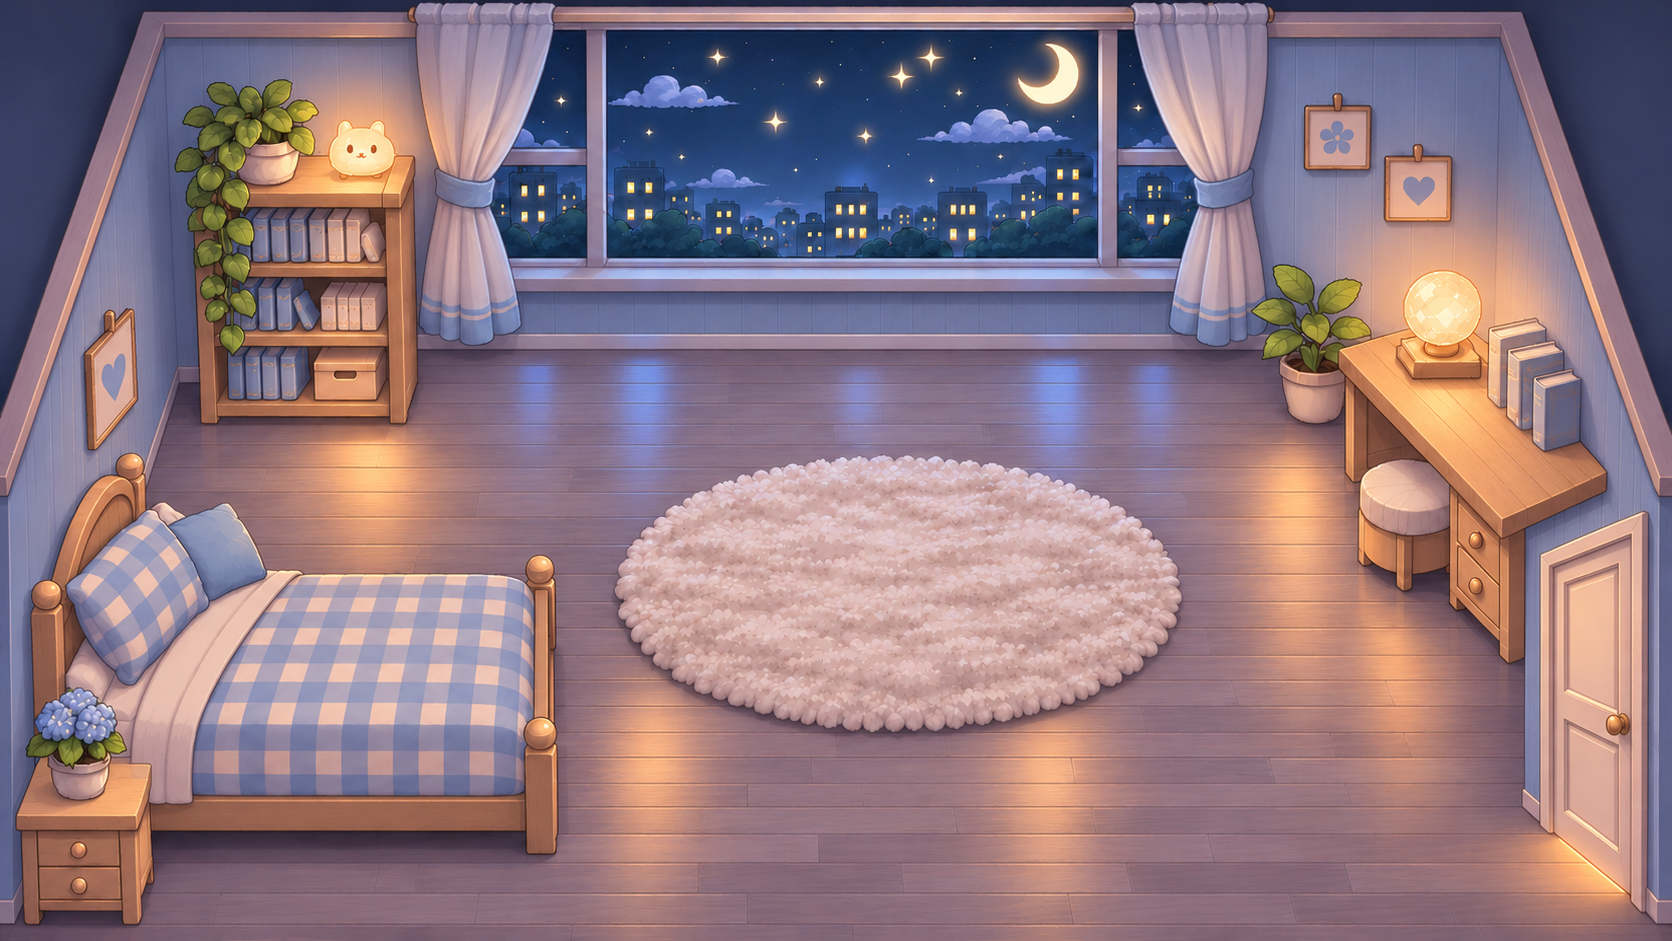
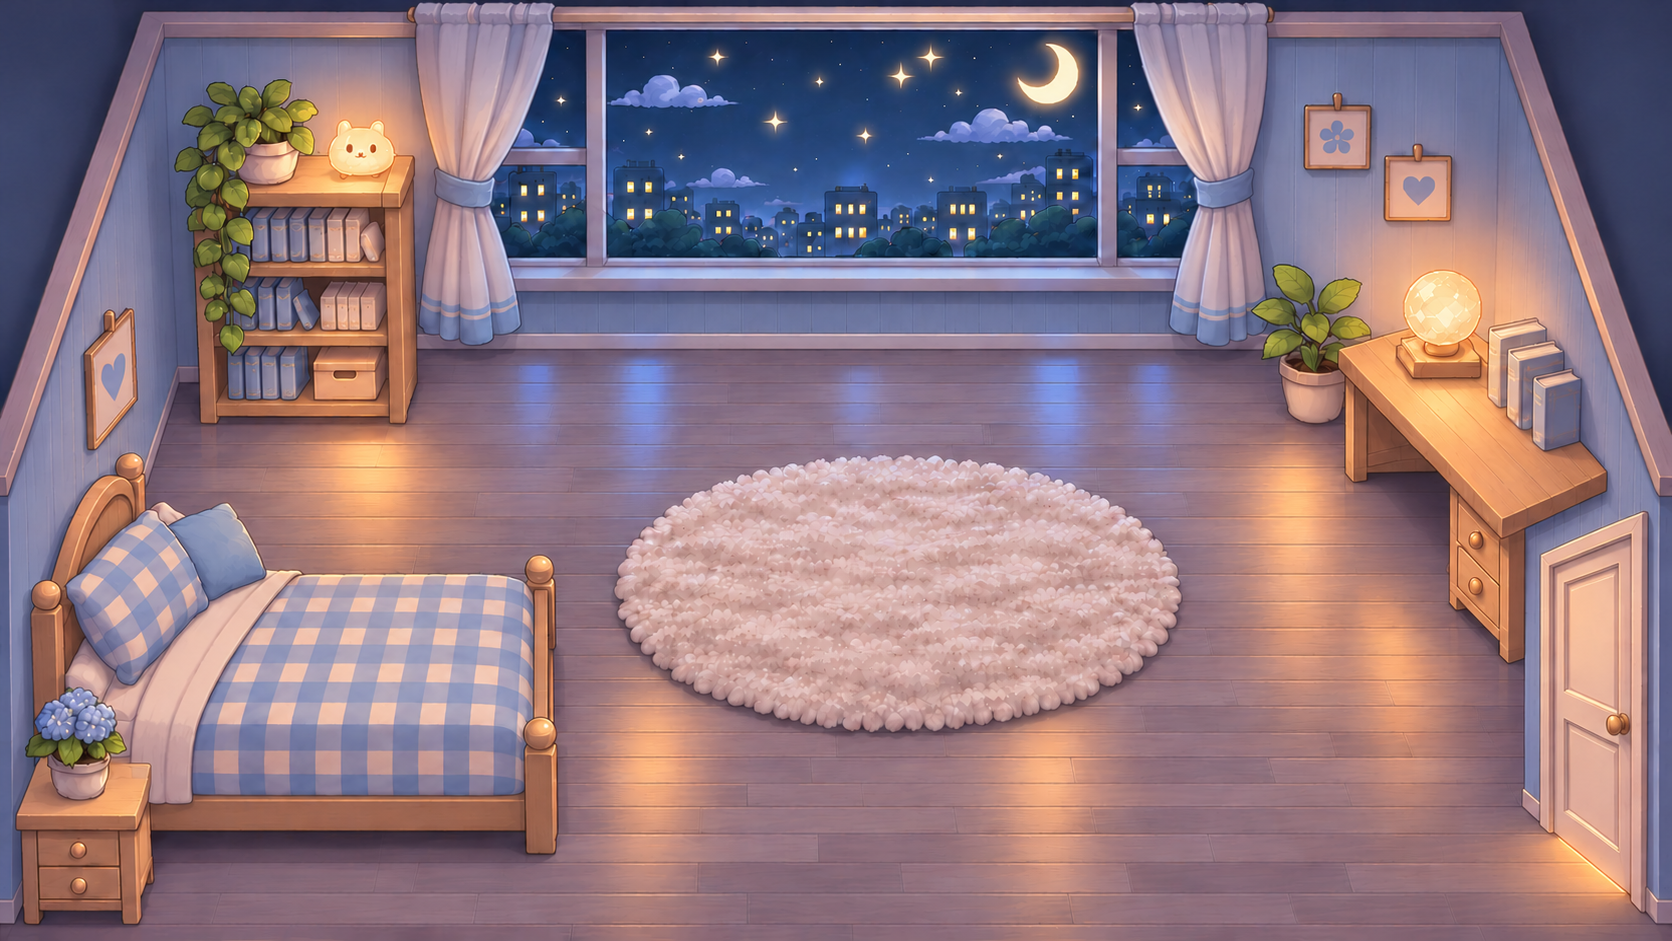
Fix character scaling and add question room answer tracking

diff --git a/css/style.css b/css/style.css
@@ -451,17 +451,16 @@ body.bedroom-game-active .utility-controls { z-index: 70; }
 .scene-name { position: absolute; z-index: 7; top: calc(var(--safe-top) + 48px); left: 50%; margin: 0; padding: 6px 16px; border-radius: 999px; color: rgba(255,255,255,.88); background: rgba(60,45,105,.3); box-shadow: inset 0 0 0 1px rgba(255,255,255,.28); backdrop-filter: blur(7px); transform: translateX(-50%); font-size: .72rem; letter-spacing: .12em; }
 .room-player { position: absolute; z-index: 4; width: clamp(110px, 9vw, 142px); aspect-ratio: 2 / 3; transform: translate(-50%, -50%); transform-origin: 50% 100%; will-change: left, top, transform; }
 .room-player::after { content: ""; position: absolute; z-index: -1; left: 21%; right: 21%; bottom: 4%; height: 7%; border-radius: 50%; background: rgba(55,31,89,.2); filter: blur(3px); }
-.room-player img { width: 100%; height: 100%; display: block; object-fit: contain; }
+.room-player img { width: 100%; height: 100%; display: block; object-fit: contain; opacity: 0; }
 .room-player img.is-mirrored { transform: scaleX(-1); }
-.room-player.is-walking img { opacity: 0; }
-.room-player.is-walking::before { content: ""; position: absolute; left: 50%; bottom: 1%; width: 118%; aspect-ratio: 1; background: url("../assets/boy-walk-cycle-sheet.png") 0 0 / 400% 300% no-repeat; transform: translateX(-50%); }
-.room-player.is-walking[data-walk-frame="1"]::before { background-position-x: 33.333%; }
-.room-player.is-walking[data-walk-frame="2"]::before { background-position-x: 66.666%; }
-.room-player.is-walking[data-walk-frame="3"]::before { background-position-x: 100%; }
-.room-player.is-walking[data-facing="back"]::before { background-position-y: 50%; }
-.room-player.is-walking[data-facing="left"]::before,
-.room-player.is-walking[data-facing="right"]::before { background-position-y: 100%; }
-.room-player.is-walking[data-facing="right"]::before { transform: translateX(-50%) scaleX(-1); }
+.room-player::before { content: ""; position: absolute; left: 50%; bottom: 1%; width: 112%; aspect-ratio: 1; background: url("../assets/boy-walk-cycle-sheet.png") 0 0 / 400% 300% no-repeat; transform: translateX(-50%); }
+.room-player[data-walk-frame="1"]::before { background-position-x: 33.333%; }
+.room-player[data-walk-frame="2"]::before { background-position-x: 66.666%; }
+.room-player[data-walk-frame="3"]::before { background-position-x: 100%; }
+.room-player[data-facing="back"]::before { background-position-y: 50%; }
+.room-player[data-facing="left"]::before,
+.room-player[data-facing="right"]::before { background-position-y: 100%; }
+.room-player[data-facing="right"]::before { transform: translateX(-50%) scaleX(-1); }
 .room-girl { position: absolute; z-index: 5; left: 23%; top: 68%; width: clamp(120px, 9.2vw, 150px); aspect-ratio: 3 / 4; padding: 0; border: 0; outline: 0; color: #f49ac3; background: transparent; transform: translate(-50%, -50%); cursor: url("../assets/cursor-heart.png") 8 5, pointer; }
 .room-girl::after { content: ""; position: absolute; z-index: -1; left: 18%; right: 18%; bottom: 2%; height: 7%; border-radius: 50%; background: rgba(55,31,89,.2); filter: blur(3px); }
 .room-girl-sprite { position: absolute; inset: 0; display: block; background-image: url("../assets/girl-bed-interaction-strip.png"); background-repeat: no-repeat; background-size: 400% 100%; background-position: 0 0; transition: filter .2s ease; }
@@ -496,11 +495,16 @@ body.bedroom-game-active .utility-controls { z-index: 70; }
 .shelf-hotspot { right: 7%; top: 47%; }
 .bedroom-game[data-scene="shop-interior"] .shelf-hotspot { display: block; opacity: .64; transform: translateY(0); animation: shelfBeacon 1.7s ease-in-out infinite; }
 .bedroom-game[data-scene="shop-interior"] .shelf-hotspot.is-near { opacity: 1; }
-.replay-direction { position: absolute; z-index: 6; right: 13%; top: 39%; min-width: 145px; padding: 11px 36px 11px 17px; border: 2px solid rgba(255,255,255,.78); border-radius: 16px; color: white; background: rgba(80,66,142,.76); box-shadow: 0 10px 28px rgba(35,25,60,.28), inset 0 0 18px rgba(255,255,255,.1); backdrop-filter: blur(10px); font: 700 clamp(.82rem,1.5vw,1.05rem)/1.15 "Kaiti SC",sans-serif; opacity: 0; transform: translateY(8px); transition: opacity .35s ease, transform .35s ease; pointer-events: none; }
+.replay-direction { position: absolute; z-index: 6; right: 13%; top: 39%; min-width: 145px; padding: 11px 36px 11px 17px; border: 3px solid #8a5b48; border-radius: 5px; color: #5b3d56; background: linear-gradient(180deg,#f0c89e,#d99d76); box-shadow: inset 0 0 0 2px rgba(255,235,205,.5), 0 8px 18px rgba(35,25,60,.25); font: 700 clamp(.82rem,1.5vw,1.05rem)/1.15 "Kaiti SC",sans-serif; opacity: 0; transform: translateY(8px) rotate(-2deg); transition: opacity .35s ease, transform .35s ease; pointer-events: none; }
 .replay-direction b { display:block; letter-spacing:.08em; }
-.replay-direction small { display:block; margin-top:3px; color:rgba(255,255,255,.74); font-size:.62em; font-weight:600; }
-.replay-direction span { position:absolute; right:11px; top:50%; color:#ffd5e8; font-size:1.35em; transform:translateY(-50%); }
-.bedroom-game[data-scene="crossroads"] .replay-direction.is-visible { opacity: 1; transform: translateY(0); }
+.replay-direction small { display:block; margin-top:3px; color:#81616e; font-size:.62em; font-weight:600; }
+.replay-direction span { position:absolute; right:11px; top:50%; color:#a54470; font-size:1.35em; transform:translateY(-50%); }
+.bedroom-game[data-scene="crossroads"] .replay-direction.is-visible { opacity: 1; transform: translateY(0) rotate(-2deg); }
+.question-direction { position:absolute; z-index:6; left:50%; top:22%; min-width:145px; padding:11px 17px 11px 42px; border:2px solid rgba(255,255,255,.82); border-radius:16px; color:white; background:rgba(91,111,170,.78); box-shadow:0 9px 24px rgba(35,25,60,.25),inset 0 0 18px rgba(255,255,255,.1); backdrop-filter:blur(9px); transform:translate(-50%,8px); opacity:0; transition:opacity .3s ease,transform .3s ease; pointer-events:none; font:700 clamp(.82rem,1.5vw,1.05rem)/1.15 "Kaiti SC",sans-serif; }
+.question-direction b,.question-direction small { display:block; }
+.question-direction small { margin-top:3px; color:rgba(255,255,255,.72); font-size:.62em; }
+.question-direction span { position:absolute; left:15px; top:50%; color:#d8e4ff; font-size:1.25em; transform:translateY(-50%); }
+.bedroom-game[data-scene="crossroads"] .question-direction.is-visible { opacity:1; transform:translate(-50%,0); pointer-events:auto; }
 .replay-shop-title { position: absolute; z-index: 6; top: 8%; left: 50%; display: none; padding: 8px 25px; color: #6b4c7e; font: 700 clamp(1.15rem,2.3vw,1.8rem)/1 "Kaiti SC",sans-serif; letter-spacing: .14em; transform: translateX(-50%); text-shadow: 0 2px 0 rgba(255,255,255,.7); }
 .bedroom-game[data-scene="shop-exterior"] .replay-shop-title { display: block; }
 .scene-toast { position: absolute; z-index: 18; left: 50%; bottom: 16%; margin: 0; padding: 9px 16px; border-radius: 14px; color: white; background: rgba(69,48,119,.76); backdrop-filter: blur(8px); transform: translateX(-50%); opacity: 0; transition: opacity .2s ease; pointer-events: none; }
@@ -521,6 +525,16 @@ body.bedroom-game-active .utility-controls { z-index: 70; }
 .memory-confirm-actions { display: grid; grid-template-columns: 1fr 1fr; gap: 10px; }
 .memory-confirm-actions button { min-height: 48px; border: 1.5px solid #d9b9d1; border-radius: 15px; color: #5b4274; background: rgba(255,255,255,.7); font-weight: 700; }
 .memory-confirm-actions button:first-child { color: white; background: linear-gradient(145deg,#a786d3,#d47fae); }
+.question-place-panel { position:absolute; z-index:75; left:50%; top:50%; width:min(88vw,560px); padding:34px; border:2px solid rgba(255,255,255,.9); border-radius:28px; color:#503d6b; background:linear-gradient(160deg,rgba(250,247,255,.98),rgba(224,231,255,.97)); box-shadow:0 28px 85px rgba(31,29,68,.44); transform:translate(-50%,-50%); text-align:center; }
+.question-place-panel[hidden] { display:none; }
+.question-place-kicker { color:#788bc8; font:700 .68rem/1.2 Georgia,serif; letter-spacing:.2em; }
+.question-place-panel h2 { margin:10px 0 16px; font:700 1.8rem/1.2 "Kaiti SC","STKaiti",sans-serif; }
+.question-place-panel p { margin:0 0 17px; font:600 1.15rem/1.55 "Kaiti SC","STKaiti",sans-serif; }
+.question-place-panel textarea { width:100%; min-height:120px; resize:vertical; padding:15px; border:1.5px solid #c8cfea; border-radius:16px; color:#4f4166; background:rgba(255,255,255,.78); font:inherit; }
+.question-place-panel > div { display:grid; grid-template-columns:1fr 1fr; gap:10px; margin-top:14px; }
+.question-place-panel button { min-height:46px; border:1.5px solid #c6cdeb; border-radius:14px; color:#566ba8; background:rgba(255,255,255,.72); font-weight:700; }
+.question-place-panel button:first-child { color:white; background:linear-gradient(145deg,#7d91ce,#a988cf); }
+.question-place-panel small { display:block; min-height:1.4em; margin-top:10px; color:#7884aa; }
 .replay-lives { position: absolute; z-index: 25; left: max(20px,env(safe-area-inset-left)); top: var(--safe-top); display: flex; gap: 8px; padding: 10px 15px; border: 2px solid rgba(255,255,255,.72); border-radius: 16px; background: rgba(62,47,105,.62); backdrop-filter: blur(8px); }
 .replay-lives[hidden] { display: none; }
 .replay-lives span { color: #f28bb8; font-size: 1.4rem; text-shadow: 0 0 8px rgba(255,177,215,.8); animation: lifeSway 1.25s ease-in-out infinite; }
@@ -553,12 +567,12 @@ body.bedroom-game-active .utility-controls { z-index: 70; }
 .achievement-banner > span { color: #bd6f9a; font: 700 .68rem/1.2 Georgia,serif; letter-spacing: .2em; }
 .achievement-banner strong { display: block; margin: 12px 0 7px; font: 700 1.65rem/1.3 "Kaiti SC","STKaiti",sans-serif; }
 .achievement-banner p { margin: 0 0 22px; color: #8b6a91; }
-.bedroom-game[data-scene="memory-bedroom"] .room-girl { left: 79%; top: 60%; width: clamp(135px,10vw,166px); aspect-ratio: 3 / 4; }
+.bedroom-game[data-scene="memory-bedroom"] .room-girl { left: 79%; top: 60%; width: clamp(135px,10vw,166px); aspect-ratio: 1 / 1; }
 .bedroom-game[data-scene="memory-bedroom"] .room-girl-sprite { background-image: url("../assets/girl-desk-emotions-strip.png"); background-size: 300% 100%; background-position: 0 0; }
 .bedroom-game[data-scene="memory-bedroom"] .room-girl[data-mood="sad"] .room-girl-sprite { background-position: 50% 0; }
 .bedroom-game[data-scene="memory-bedroom"] .room-girl[data-mood="nod"] .room-girl-sprite { background-position: 100% 0; }
 .bedroom-game[data-scene="memory-bedroom"] .room-girl[data-mood="nod"] { animation: girlNod .65s ease 2; }
-.couple-interaction { position: absolute; z-index: 30; left: 79%; top: 61%; width: clamp(230px,19vw,310px); aspect-ratio: 1 / 1; background: url("../assets/couple-interaction-strip.png") 0 50% / 200% 100% no-repeat; transform: translate(-50%,-50%); filter: drop-shadow(0 7px 5px rgba(45,29,72,.2)); animation: coupleMoment 1.5s ease both; }
+.couple-interaction { position: absolute; z-index: 30; left: 79%; top: 61%; width: clamp(205px,17vw,276px); aspect-ratio: 1 / 1; background: url("../assets/couple-interaction-strip.png") 0 50% / 200% 100% no-repeat; transform: translate(-50%,-50%); filter: drop-shadow(0 7px 5px rgba(45,29,72,.2)); animation: coupleMoment 1.5s ease both; }
 .couple-interaction[hidden] { display: none; }
 .couple-interaction[data-action="kiss"] { background-position: 100% 50%; }
 .bedroom-game.is-couple-moment .room-player,
@@ -658,7 +672,10 @@ input,
   .replay-dialogue { bottom: max(115px,calc(var(--safe-bottom) + 90px)); width: calc(100vw - 22px); padding: 31px 18px 18px; }
   .replay-choices { grid-template-columns: 1fr; max-height: 33vh; overflow-y: auto; }
   .bedroom-game[data-scene="memory-bedroom"] .room-girl { left: 73%; top: 46%; width: clamp(92px,27vw,118px); }
-  .couple-interaction { left: 72%; top: 48%; width: clamp(170px,49vw,220px); }
+  .couple-interaction { left: 72%; top: 48%; width: clamp(150px,43vw,195px); }
+  .question-direction { top:28%; }
+  .question-place-panel { width:calc(100vw - 24px); padding:27px 20px; }
+  .question-place-panel > div { grid-template-columns:1fr; }
   .touch-controls { display: grid; }
 }
 

diff --git a/js/script.js b/js/script.js
@@ -39,6 +39,7 @@ const sceneName = document.getElementById("scene-name");
 const bedroomDoor = document.getElementById("bedroom-door");
 const crossroadHome = document.getElementById("crossroad-home");
 const replayDirection = document.getElementById("replay-direction");
+const questionDirection = document.getElementById("question-direction");
 const shopDoor = document.getElementById("shop-door");
 const shelfHotspot = document.getElementById("shelf-hotspot");
 const sceneToast = document.getElementById("scene-toast");
@@ -61,6 +62,11 @@ const replayContinue = document.getElementById("replay-continue");
 const affectionGain = document.getElementById("affection-gain");
 const achievementBanner = document.getElementById("achievement-banner");
 const achievementClose = document.getElementById("achievement-close");
+const questionPlacePanel = document.getElementById("question-place-panel");
+const questionPlaceAnswer = document.getElementById("question-place-answer");
+const questionPlaceSave = document.getElementById("question-place-save");
+const questionPlaceBack = document.getElementById("question-place-back");
+const questionPlaceStatus = document.getElementById("question-place-status");
 const affectionValue = document.getElementById("affection-value");
 const affectionPopupValue = document.getElementById("affection-popup-value");
 const touchControls = [...document.querySelectorAll("[data-direction]")];
@@ -113,10 +119,12 @@ const onboardingAnswers = [];
 let affectionLevel = 10;
 let memory111Complete = false;
 let memoryRewardFlags = new Set();
+let answerLog = [];
 let replayHearts = 3;
 let replayCheckpoint = "start";
 let replayStep = "start";
 let replayDialogueAction = null;
+let pendingAffectionHint = false;
 
 function getStoryStorageKey(storyId) {
   return `1u-story-${encodeURIComponent(storyId)}-onboarding`;
@@ -430,7 +438,7 @@ const playerPosition = { x: 50, y: 64 };
 let movementFrame;
 let lastMovementTime = 0;
 let lastWalkFrameTime = 0;
-let walkFrame = 0;
+let walkFrame = 1;
 let lastAutoSaveTime = 0;
 let girlAnimationTimers = [];
 
@@ -481,6 +489,7 @@ function setScene(scene, position = { x: 50, y: 72 }, facing = "front") {
   replayDialogue.hidden = true;
   affectionPopup.hidden = true;
   memoryShelfModal.hidden = true;
+  questionPlacePanel.hidden = true;
   renderPlayerPosition();
   saveGameState(false);
   playSfx("soft");
@@ -498,6 +507,7 @@ function updateSceneProximity() {
   shopDoor.classList.toggle("is-near", nearShopDoor);
   shelfHotspot.classList.toggle("is-near", nearShelf);
   replayDirection.classList.toggle("is-visible", scene === "crossroads" && playerPosition.x >= 58);
+  questionDirection.classList.toggle("is-visible", scene === "crossroads" && playerPosition.y <= 45 && playerPosition.x >= 35 && playerPosition.x <= 65);
 }
 
 function getSceneBounds() {
@@ -568,6 +578,11 @@ function updateReplayLives() {
   [...replayLives.children].forEach((heart, index) => heart.classList.toggle("is-lost", index >= replayHearts));
 }
 
+function recordAnswer(prompt, answer, scene = bedroomGame.dataset.scene || "unknown") {
+  answerLog.push({ scene, prompt, answer, recordedAt: new Date().toISOString() });
+  saveGameState(false);
+}
+
 function showReplayDialogue({ speaker = "她", text, choices = [], onContinue = null }) {
   replaySpeaker.textContent = speaker;
   replayDialogueText.textContent = text;
@@ -578,7 +593,10 @@ function showReplayDialogue({ speaker = "她", text, choices = [], onContinue = 
     const button = document.createElement("button");
     button.type = "button";
     button.textContent = `${String.fromCharCode(65 + index)}. ${choice.label}`;
-    button.addEventListener("click", choice.action, { once: true });
+    button.addEventListener("click", () => {
+      recordAnswer(text, choice.label);
+      choice.action();
+    }, { once: true });
     replayChoices.appendChild(button);
   });
   replayDialogue.hidden = false;
@@ -827,6 +845,7 @@ function saveGameState(showFeedback = false) {
     affection: affectionLevel,
     memory111Complete,
     memoryRewardFlags: [...memoryRewardFlags],
+    answerLog,
     replayHearts,
     audio: { ...audioState },
     savedAt: Date.now()
@@ -844,7 +863,7 @@ function savePlayerPosition() { saveGameState(false); }
 
 function movementLoop(timestamp) {
   if (!document.body.classList.contains("bedroom-game-active")) return;
-  if (!memoryShelfModal.hidden || !replayDialogue.hidden || !replayGuide.hidden || !achievementBanner.hidden) {
+  if (!memoryShelfModal.hidden || !questionPlacePanel.hidden || !replayDialogue.hidden || !replayGuide.hidden || !achievementBanner.hidden) {
     movementKeys.clear();
     movementFrame = window.requestAnimationFrame(movementLoop);
     return;
@@ -860,7 +879,7 @@ function movementLoop(timestamp) {
   if (movementKeys.has("down")) vertical += 1;
 
   if (horizontal || vertical) {
-    if (timestamp - lastWalkFrameTime >= 125) {
+    if (timestamp - lastWalkFrameTime >= 150) {
       walkFrame = (walkFrame + 1) % 4;
       roomPlayer.dataset.walkFrame = String(walkFrame);
       lastWalkFrameTime = timestamp;
@@ -888,7 +907,8 @@ function movementLoop(timestamp) {
     }
   } else {
     roomPlayer.classList.remove("is-walking");
-    roomPlayer.dataset.walkFrame = "0";
+    walkFrame = 1;
+    roomPlayer.dataset.walkFrame = "1";
   }
 
   movementFrame = window.requestAnimationFrame(movementLoop);
@@ -914,6 +934,7 @@ function enterBedroomGame(savedState = null) {
   affectionLevel = Number.isFinite(savedState?.affection) ? savedState.affection : 10;
   memory111Complete = Boolean(savedState?.memory111Complete);
   memoryRewardFlags = new Set(Array.isArray(savedState?.memoryRewardFlags) ? savedState.memoryRewardFlags : []);
+  answerLog = Array.isArray(savedState?.answerLog) ? savedState.answerLog : [];
   replayHearts = Number.isFinite(savedState?.replayHearts) ? Math.max(0, Math.min(3, savedState.replayHearts)) : 3;
   memoryCompleteBadge.hidden = !memory111Complete;
   updateAffectionDisplay();
@@ -937,9 +958,6 @@ function enterBedroomGame(savedState = null) {
   playerPosition.x = Number.isFinite(savedPosition?.x) ? Math.max(bounds.minX, Math.min(bounds.maxX, savedPosition.x)) : 50;
   playerPosition.y = Number.isFinite(savedPosition?.y) ? Math.max(bounds.minY, Math.min(bounds.maxY, savedPosition.y)) : (savedScene === "bedroom" ? 66 : 78);
   renderPlayerPosition();
-  if (savedScene === "bedroom" && affectionLevel < 30) {
-    window.setTimeout(() => showSceneToast("提示：好感度达到 30% 后，才能和她好好沟通。"), 450);
-  }
   window.cancelAnimationFrame(movementFrame);
   lastMovementTime = performance.now();
   movementFrame = window.requestAnimationFrame(movementLoop);
@@ -975,6 +993,31 @@ shelfHotspot.addEventListener("click", () => {
   playSfx("message");
 });
 
+questionDirection.addEventListener("click", () => {
+  const closeEnough = bedroomGame.dataset.scene === "crossroads" && playerPosition.y <= 34 && playerPosition.x >= 35 && playerPosition.x <= 65;
+  if (!closeEnough) return showSceneToast("沿着上方小路再走近一点。" );
+  questionPlaceStatus.textContent = "";
+  questionPlacePanel.hidden = false;
+  movementKeys.clear();
+  playSfx("message");
+});
+
+questionPlaceSave.addEventListener("click", () => {
+  const answer = questionPlaceAnswer.value.trim();
+  if (!answer) {
+    questionPlaceStatus.textContent = "先写下你的答案呀。";
+    return;
+  }
+  recordAnswer("你觉得一段关系里，什么最能让你有安全感？", answer, "question-room");
+  questionPlaceStatus.textContent = "回答已保存 ♡";
+  playSfx("confirm");
+});
+
+questionPlaceBack.addEventListener("click", () => {
+  questionPlacePanel.hidden = true;
+  playSfx("soft");
+});
+
 memoryShelfClose.addEventListener("click", () => {
   memoryShelfModal.hidden = true;
   memoryConfirm.hidden = true;
@@ -1000,12 +1043,7 @@ roomGirl.addEventListener("click", () => {
     else showReplayDialogue({ speaker: "她", text: "哼～", onContinue: showFirstChoices });
     return;
   }
-  if (affectionLevel < 30) {
-    npcDialogueText.textContent = `好感度达到 30% 后，才能和${getHerTitle()}好好沟通。`;
-    npcDialogue.hidden = false;
-    playSfx("soft");
-    return;
-  }
+  if (affectionLevel < 30) pendingAffectionHint = true;
   playGirlHmph();
 });
 
@@ -1048,6 +1086,12 @@ achievementClose.addEventListener("click", () => {
 });
 
 npcDialogueClose.addEventListener("click", () => {
+  if (pendingAffectionHint) {
+    pendingAffectionHint = false;
+    npcDialogueText.textContent = `提示：好感度达到 30% 后，才能和${getHerTitle()}好好沟通。`;
+    playSfx("message");
+    return;
+  }
   npcDialogue.hidden = true;
   playSfx("soft");
 });

diff --git a/index.html b/index.html
@@ -17,7 +17,7 @@
   <link rel="preload" as="image" href="assets/crossroads-night-mobile.png" media="(max-width: 700px)">
   <link rel="preload" as="image" href="assets/replay-shop-exterior-mobile.png" media="(max-width: 700px)">
   <link rel="preload" as="image" href="assets/replay-shop-interior-mobile.png" media="(max-width: 700px)">
-  <link rel="stylesheet" href="css/style.css?v=20261106-0020">
+  <link rel="stylesheet" href="css/style.css?v=20261106-0030">
 </head>
 <body>
   <main class="game-shell" aria-labelledby="game-title">
@@ -146,7 +146,7 @@
         <span class="interaction-heart" aria-hidden="true">♡</span>
       </button>
 
-      <div class="room-player" id="room-player" data-facing="front">
+      <div class="room-player" id="room-player" data-facing="front" data-walk-frame="1">
         <img id="room-player-sprite" src="assets/boy-casual.png" alt="可以在卧室里走动的男生角色">
       </div>
 
@@ -155,6 +155,7 @@
       <button class="scene-hotspot bedroom-door" id="bedroom-door" type="button">出门 →</button>
       <button class="scene-hotspot crossroad-home" id="crossroad-home" type="button">← 回家</button>
       <div class="replay-direction" id="replay-direction" aria-hidden="true"><b>记忆小店</b><small>沿右边小路</small><span>→</span></div>
+      <button class="question-direction" id="question-direction" type="button"><b>问题小屋</b><small>沿上方小路</small><span>↑</span></button>
       <div class="replay-shop-title" aria-hidden="true">记忆小店</div>
       <button class="scene-hotspot shop-door" id="shop-door" type="button">进入店里 ↑</button>
       <button class="scene-hotspot shelf-hotspot" id="shelf-hotspot" type="button">查看货架 ♡</button>
@@ -205,6 +206,18 @@
         </section>
       </section>
 
+      <section class="question-place-panel" id="question-place-panel" aria-label="问题小屋" hidden>
+        <span class="question-place-kicker">QUESTION ROOM</span>
+        <h2>问题小屋</h2>
+        <p id="question-place-prompt">你觉得一段关系里，什么最能让你有安全感？</p>
+        <textarea id="question-place-answer" maxlength="300" placeholder="把真实答案写在这里……"></textarea>
+        <div>
+          <button id="question-place-save" type="button">保存回答</button>
+          <button id="question-place-back" type="button">回到岔路</button>
+        </div>
+        <small id="question-place-status" aria-live="polite"></small>
+      </section>
+
       <div class="replay-lives" id="replay-lives" aria-label="剩余机会" hidden>
         <span>♥</span><span>♥</span><span>♥</span>
       </div>
@@ -232,6 +245,6 @@
       </section>
     </section>
   </main>
-  <script src="js/script.js?v=20261106-0020"></script>
+  <script src="js/script.js?v=20261106-0030"></script>
 </body>
 </html>
